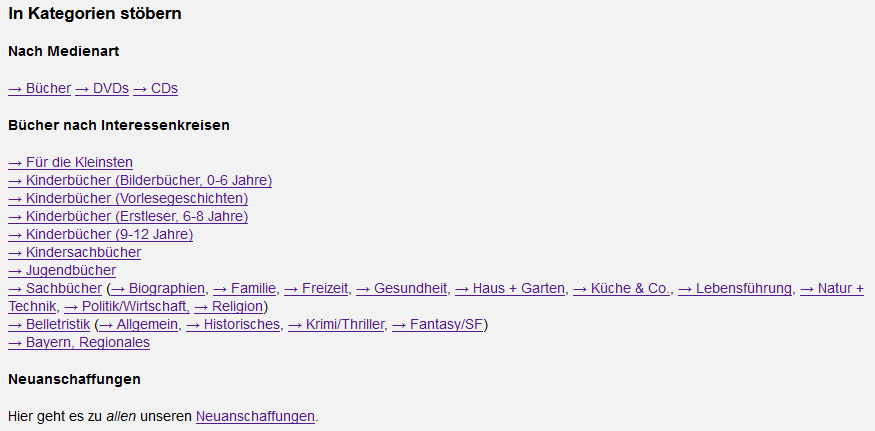
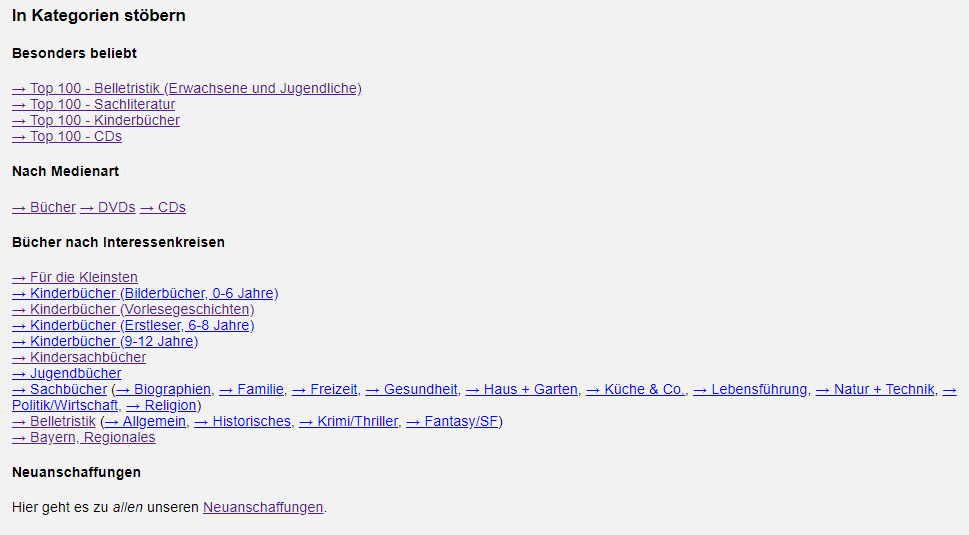
Neuer Biblino-Screenshot mit Top100, Gemfile.lock nach Github-Security-Hinweis aktualisiert

diff --git a/_posts/2018-08-26-online-funktionen.md b/_posts/2018-08-26-online-funktionen.md
@@ -67,7 +67,7 @@ Mit der "Expertensuche" kann noch genauer nach einzelnen Kriterien gesucht werde
 Um einfach ein wenig in den Kategorien der Bücherei zu stöbern, können Sie auch einem der Links auf der Startseite folgen:
 
 {% include lightcase.html src="/images/2018-08-26-online-funktionen/biblino-stoebern.png" group="bilder-dieser-seite"
-           title="Links zum direkten Einstieg in die Bücherei-Sachgruppen" %}
+           title="Links zum direkten Einstieg in die Top 100 und die Bücherei-Sachgruppen" %}
 
 
 ### Das Leserkonto
